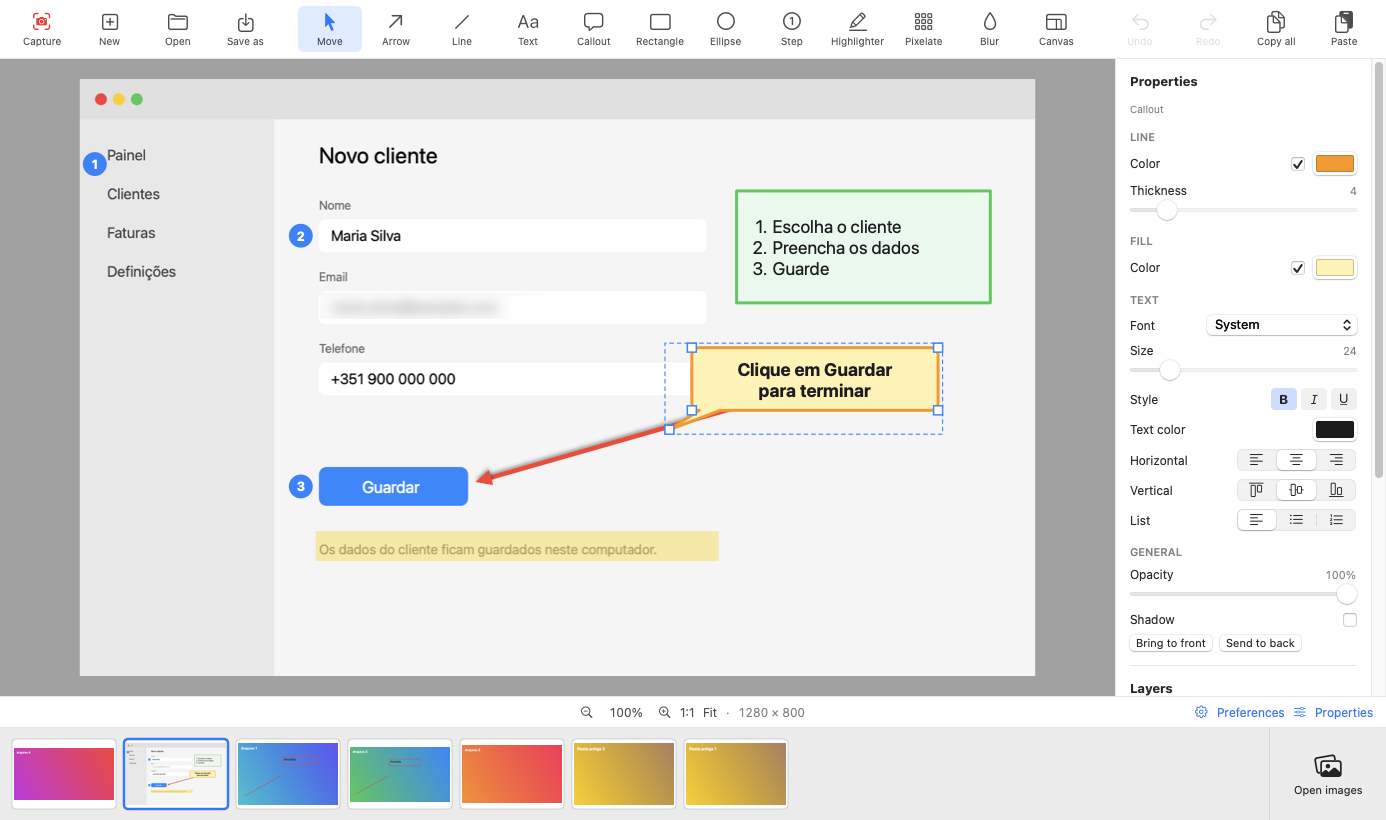
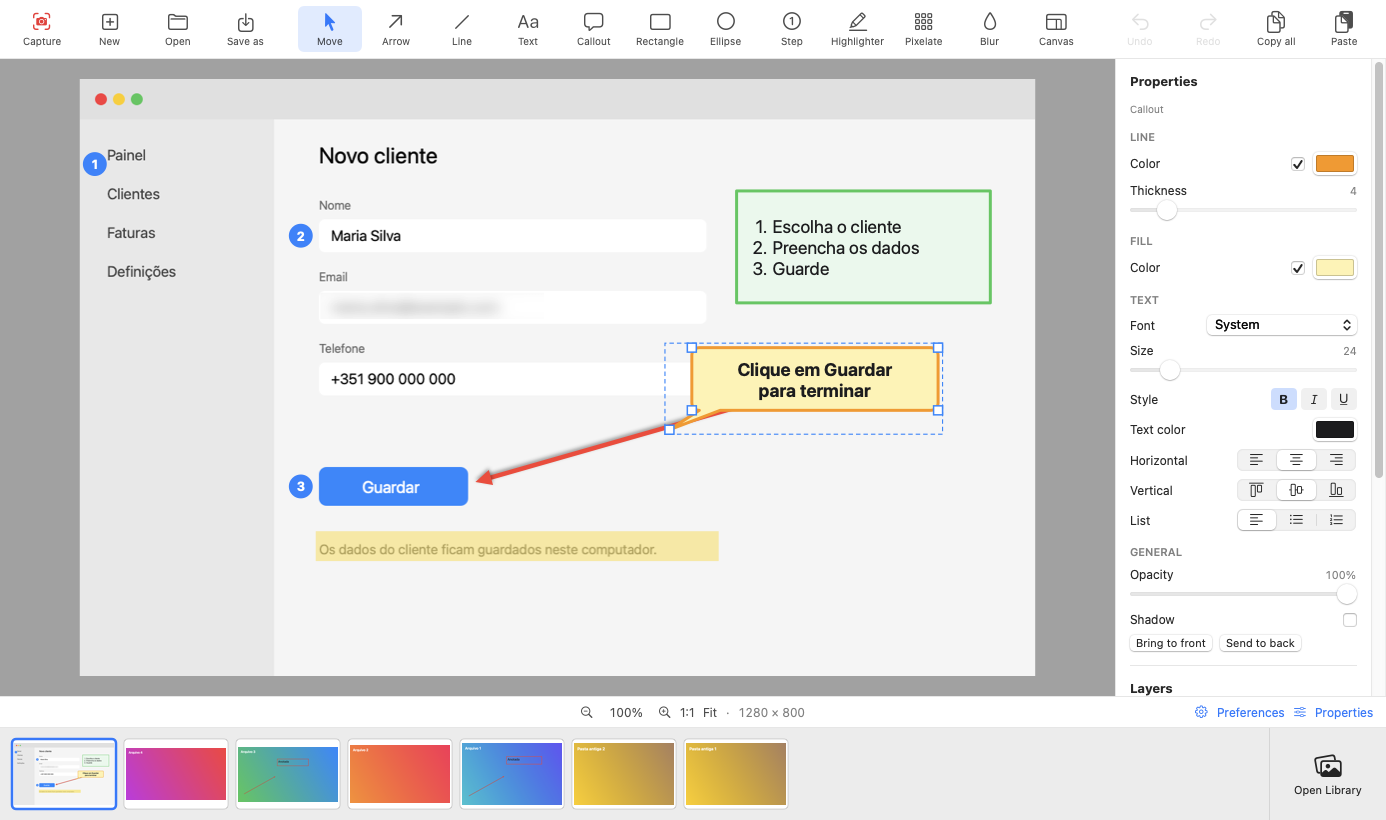
Toth 1.2.0: página atualizada

Changed region(s): [[0.0, 0.8841, 0.4033, 1.0], [0.9618, 0.9451, 0.9928, 0.9756]]

diff --git a/README.md b/README.md
@@ -9,7 +9,7 @@
 
 <p align="center"><img src="images/toth-editor-pt.png" alt="Editor do Toth" width="900"></p>
 
-> **Versão 1.1.0 (pré-visualização).** Descarregue em [**Releases**](../../releases/latest). A app ainda não está notarizada pela Apple (ver *Instalar*) e os documentos legais são rascunhos. Este repositório só tem a página de descarregamento; o código-fonte é privado.
+> **Versão 1.2.0 (pré-visualização).** Descarregue em [**Releases**](../../releases/latest). A app ainda não está notarizada pela Apple (ver *Instalar*) e os documentos legais são rascunhos. Este repositório só tem a página de descarregamento; o código-fonte é privado.
 
 ---
 
@@ -36,10 +36,12 @@
 - **Exportar PNG** ou **copiar tudo** para a área de transferência.
 
 **Biblioteca**
-- Grelha com a **pré-visualização atual** de cada captura, para escolher clicando; faixa de miniaturas no editor; importar imagens (PNG, JPEG, HEIC, TIFF, GIF, BMP).
-- Cada captura é **um só ficheiro `.capture`** (um ZIP normal) em `~/Pictures/Capture`.
+- **Abrir Biblioteca** (botão no canto inferior direito): grelha com a **pré-visualização atual** de cada captura, para escolher clicando; faixa de miniaturas no editor.
+- **Abrir** (barra superior): abre **qualquer imagem do computador** (PNG, JPEG, HEIC, TIFF, GIF, BMP…) no editor. Fica como captura nova (o ficheiro original não é tocado) e as alterações guardam-se; com **Salvar como** exporta em **PNG, JPEG, HEIC ou TIFF**.
+- Cada captura é **um só ficheiro `.capture`** (um ZIP normal) em `~/Pictures/Capture`, com nome **sem espaços**: `Toth_AAAA-MM-DD_HH.MM.SS.capture`. Os ficheiros `.capture` **abrem com o Toth** (duplo clique, *Abrir com*, ou arrastar para o ícone do Dock).
 
 **Comodidades**
+- O Toth também aparece em *Abrir com* para imagens.
 - Cada ferramenta **lembra a última personalização**, mesmo depois de fechar a app.
 - **Português e inglês**, com mudança imediata em *Preferências*.
 - **Privacidade:** a app não usa a internet nem recolhe dados.
@@ -48,7 +50,7 @@
 macOS 15 ou superior (Apple Silicon e Intel; testado em Apple Silicon).
 
 ### Instalar
-1. Em [**Releases**](../../releases/latest), descarregue `Toth-1.1.0.zip` e descomprima.
+1. Em [**Releases**](../../releases/latest), descarregue `Toth-1.2.0.zip` e descomprima.
 2. Arraste `Toth.app` para a pasta **Aplicações**.
 3. **Primeira abertura (só é preciso uma vez):** como a app ainda não está notarizada pela Apple, o macOS mostra *“Toth” não aberto*, com os botões *Mover para o Lixo* e *OK*. **Não mova para o Lixo.** Clique em **OK**, abra **Definições do Sistema → Privacidade e Segurança**, desça até **Segurança**, clique em **Abrir mesmo assim** junto a “Toth”, confirme com a palavra-passe ou Touch ID e clique em **Abrir**. (No macOS 14 ou anterior basta botão direito → **Abrir**. Alternativa no Terminal: `xattr -dr com.apple.quarantine /Applications/Toth.app`.)
 4. Conceda a permissão de **Gravação de Ecrã** (*Definições do Sistema → Privacidade e Segurança → Gravação de Ecrã e Áudio do Sistema*) e volte a abrir a app. O Toth aparece no **Dock** e na **barra de menus**; clicar no ícone do Dock abre o editor.
@@ -89,10 +91,12 @@ Gratuita, de código fechado. Dúvidas e problemas: abra uma *issue* neste repos
 - **Export PNG** or **copy all** to the clipboard.
 
 **Library**
-- A grid with the **current preview** of each capture to pick by clicking; a thumbnail strip in the editor; import images (PNG, JPEG, HEIC, TIFF, GIF, BMP).
-- Each capture is **a single `.capture` file** (a standard ZIP) in `~/Pictures/Capture`.
+- **Open Library** (button at the bottom right): a grid with the **current preview** of each capture to pick by clicking; a thumbnail strip in the editor.
+- **Open** (top bar): opens **any image on your computer** (PNG, JPEG, HEIC, TIFF, GIF, BMP…) in the editor. It becomes a new capture (the original file is never touched) and your changes are saved; **Save as** exports **PNG, JPEG, HEIC or TIFF**.
+- Each capture is **a single `.capture` file** (a standard ZIP) in `~/Pictures/Capture`, with a name **without spaces**: `Toth_YYYY-MM-DD_HH.MM.SS.capture`. `.capture` files **open with Toth** (double-click, *Open With*, or drag onto the Dock icon).
 
 **Conveniences**
+- Toth also appears under *Open With* for images.
 - Each tool **remembers its last customization**, even after you quit the app.
 - **Portuguese and English**, switchable instantly in *Preferences*.
 - **Privacy:** the app never uses the internet and collects no data.
@@ -101,7 +105,7 @@ Gratuita, de código fechado. Dúvidas e problemas: abra uma *issue* neste repos
 macOS 15 or later (Apple Silicon and Intel; tested on Apple Silicon).
 
 ### Install
-1. Under [**Releases**](../../releases/latest), download `Toth-1.1.0.zip` and unzip it.
+1. Under [**Releases**](../../releases/latest), download `Toth-1.2.0.zip` and unzip it.
 2. Drag `Toth.app` to **Applications**.
 3. **First launch (only needed once):** because the app is not yet notarized by Apple, macOS shows *“Toth” Not Opened*, with *Move to Trash* and *Done* buttons. **Don't move it to the Trash.** Click **Done**, open **System Settings → Privacy & Security**, scroll to **Security**, click **Open Anyway** next to “Toth”, confirm with your password or Touch ID, then click **Open**. (On macOS 14 or earlier, right-click → **Open** is enough. Terminal alternative: `xattr -dr com.apple.quarantine /Applications/Toth.app`.)
 4. Grant the **Screen Recording** permission (*System Settings → Privacy & Security → Screen & System Audio Recording*) and reopen the app. Toth shows in the **Dock** and the **menu bar**; clicking the Dock icon opens the editor.
